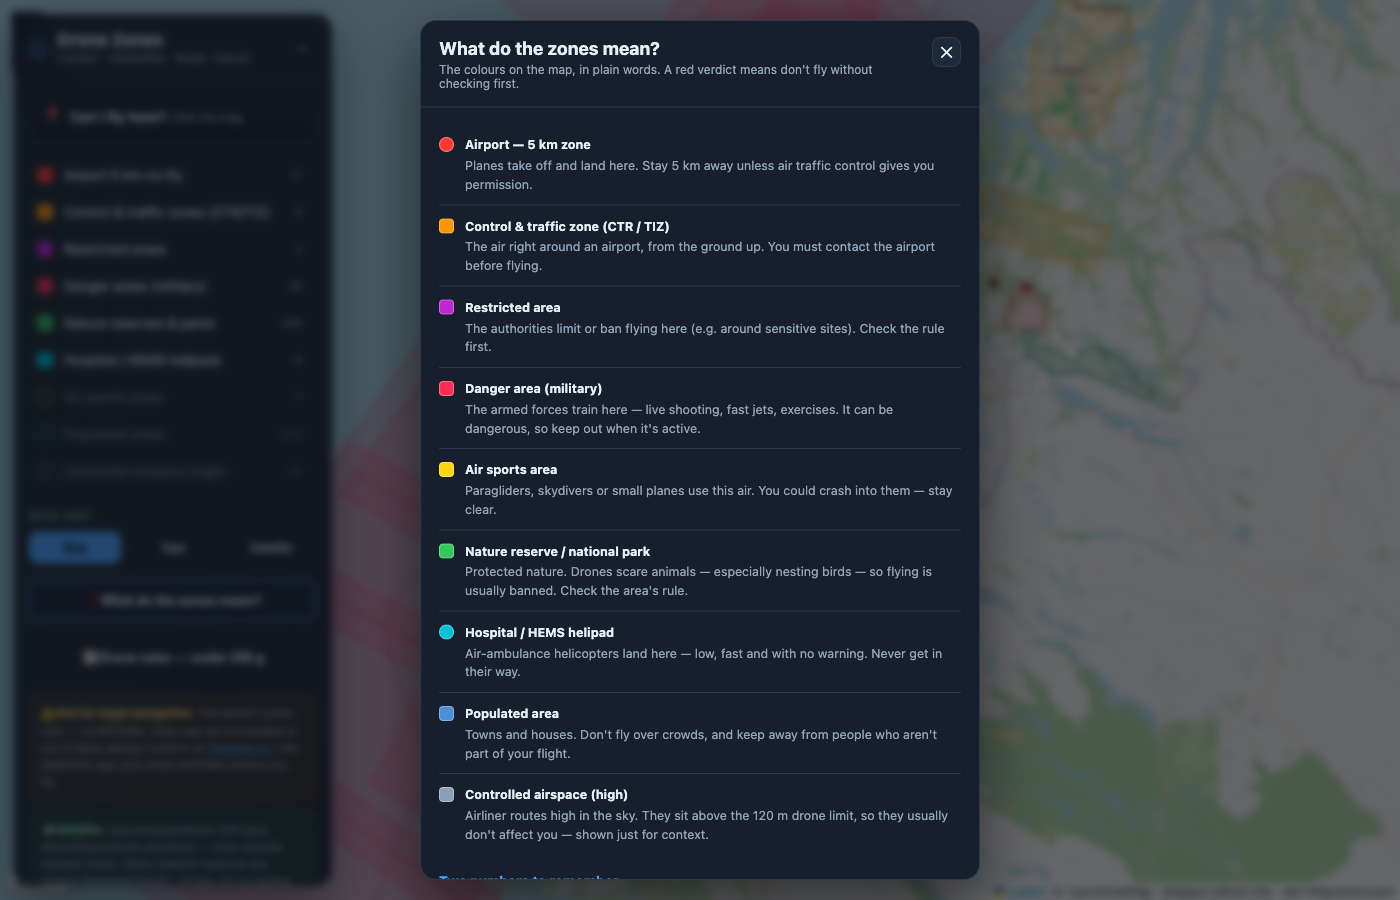
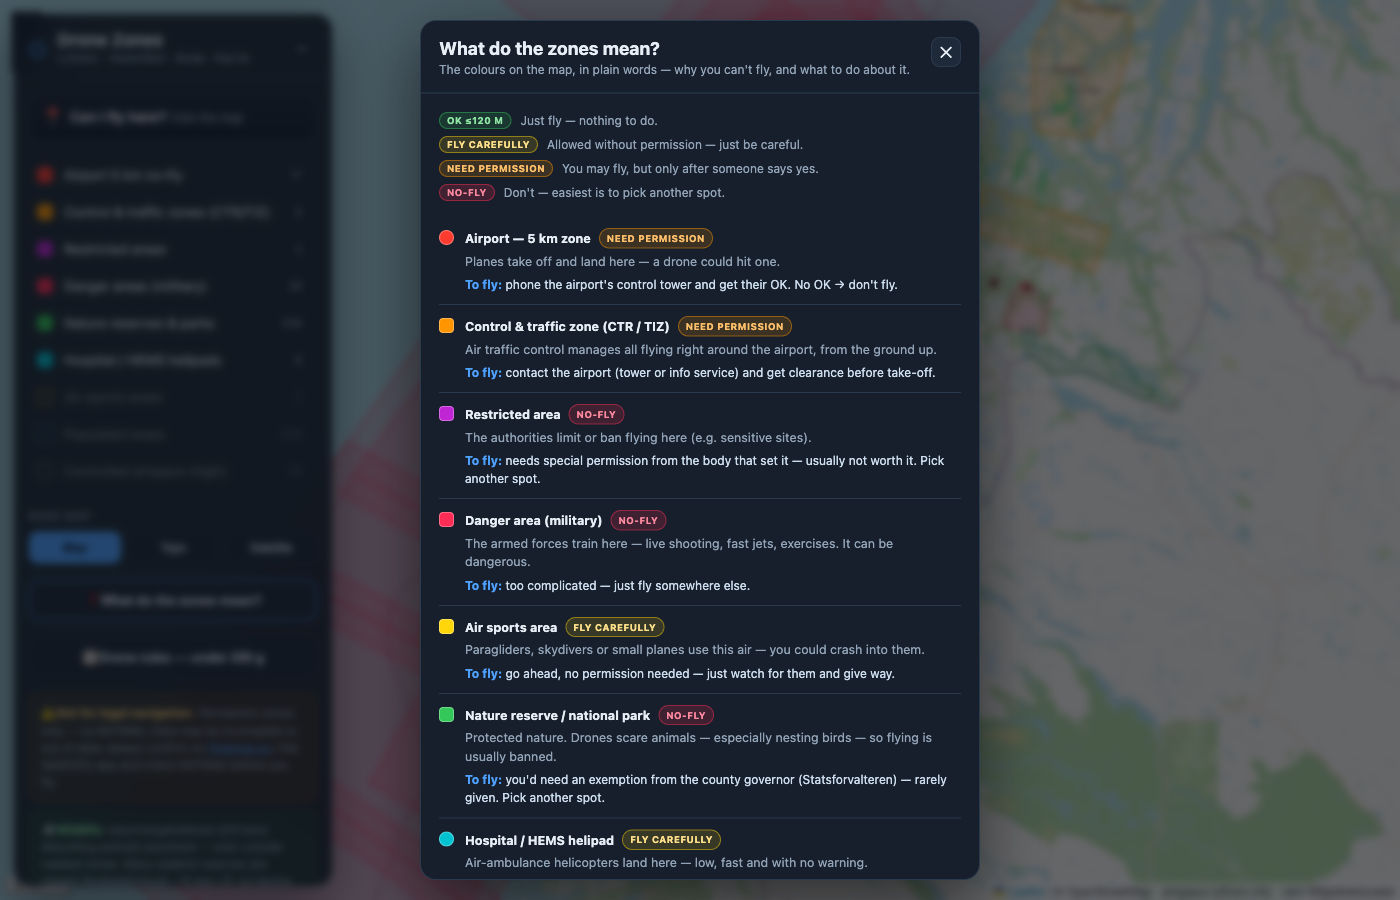
Glossary: add tag key + "To fly" actions; rename Caution → Fly carefully
Each zone now shows why you can't fly AND the concrete step to be allowed
("To fly: …"), with genuine no-fly zones simply saying "pick another spot".
A tag key explains the four badges (OK / Fly carefully / Need permission / No-fly).

Changed region(s): [[0.3071, 0.1244, 0.6757, 0.9644], [0.4914, 0.0622, 0.645, 0.0933]]

diff --git a/index.html b/index.html
@@ -125,21 +125,27 @@
       <header class="modal__head">
         <div>
           <h2 id="glossTitle">What do the zones mean?</h2>
-          <p>The colours on the map, in plain words. A red verdict means don't fly without checking first.</p>
+          <p>The colours on the map, in plain words — why you can't fly, and what to do about it.</p>
         </div>
         <button id="glossaryClose" class="iconbtn" aria-label="Close">✕</button>
       </header>
       <div class="modal__body">
+        <div class="taglegend">
+          <span><span class="badge badge--ok">OK ≤120 m</span> Just fly — nothing to do.</span>
+          <span><span class="badge badge--caution">Fly carefully</span> Allowed without permission — just be careful.</span>
+          <span><span class="badge badge--perm">Need permission</span> You may fly, but only after someone says yes.</span>
+          <span><span class="badge badge--nofly">No-fly</span> Don't — easiest is to pick another spot.</span>
+        </div>
         <ul class="gloss">
-          <li><span class="chip chip--ring" style="background:var(--c-airport)"></span><span><b>Airport — 5 km zone</b>Planes take off and land here. Stay 5 km away unless air traffic control gives you permission.</span></li>
-          <li><span class="chip" style="background:var(--c-ctr)"></span><span><b>Control &amp; traffic zone (CTR / TIZ)</b>The air right around an airport, from the ground up. You must contact the airport before flying.</span></li>
-          <li><span class="chip" style="background:var(--c-restricted)"></span><span><b>Restricted area</b>The authorities limit or ban flying here (e.g. around sensitive sites). Check the rule first.</span></li>
-          <li><span class="chip" style="background:var(--c-danger)"></span><span><b>Danger area (military)</b>The armed forces train here — live shooting, fast jets, exercises. It can be dangerous, so keep out when it's active.</span></li>
-          <li><span class="chip" style="background:var(--c-airsport)"></span><span><b>Air sports area</b>Paragliders, skydivers or small planes use this air. You could crash into them — stay clear.</span></li>
-          <li><span class="chip" style="background:var(--c-reserve)"></span><span><b>Nature reserve / national park</b>Protected nature. Drones scare animals — especially nesting birds — so flying is usually banned. Check the area's rule.</span></li>
-          <li><span class="chip chip--ring" style="background:var(--c-helipad)"></span><span><b>Hospital / HEMS helipad</b>Air-ambulance helicopters land here — low, fast and with no warning. Never get in their way.</span></li>
-          <li><span class="chip" style="background:var(--c-populated)"></span><span><b>Populated area</b>Towns and houses. Don't fly over crowds, and keep away from people who aren't part of your flight.</span></li>
-          <li><span class="chip" style="background:var(--c-controlled)"></span><span><b>Controlled airspace (high)</b>Airliner routes high in the sky. They sit above the 120 m drone limit, so they usually don't affect you — shown just for context.</span></li>
+          <li><span class="chip chip--ring" style="background:var(--c-airport)"></span><span><span class="gloss-title"><b>Airport — 5 km zone</b><span class="badge badge--perm">Need permission</span></span>Planes take off and land here — a drone could hit one.<span class="todo"><b>To fly:</b> phone the airport's control tower and get their OK. No OK → don't fly.</span></span></li>
+          <li><span class="chip" style="background:var(--c-ctr)"></span><span><span class="gloss-title"><b>Control &amp; traffic zone (CTR / TIZ)</b><span class="badge badge--perm">Need permission</span></span>Air traffic control manages all flying right around the airport, from the ground up.<span class="todo"><b>To fly:</b> contact the airport (tower or info service) and get clearance before take-off.</span></span></li>
+          <li><span class="chip" style="background:var(--c-restricted)"></span><span><span class="gloss-title"><b>Restricted area</b><span class="badge badge--nofly">No-fly</span></span>The authorities limit or ban flying here (e.g. sensitive sites).<span class="todo"><b>To fly:</b> needs special permission from the body that set it — usually not worth it. Pick another spot.</span></span></li>
+          <li><span class="chip" style="background:var(--c-danger)"></span><span><span class="gloss-title"><b>Danger area (military)</b><span class="badge badge--nofly">No-fly</span></span>The armed forces train here — live shooting, fast jets, exercises. It can be dangerous.<span class="todo"><b>To fly:</b> too complicated — just fly somewhere else.</span></span></li>
+          <li><span class="chip" style="background:var(--c-airsport)"></span><span><span class="gloss-title"><b>Air sports area</b><span class="badge badge--caution">Fly carefully</span></span>Paragliders, skydivers or small planes use this air — you could crash into them.<span class="todo"><b>To fly:</b> go ahead, no permission needed — just watch for them and give way.</span></span></li>
+          <li><span class="chip" style="background:var(--c-reserve)"></span><span><span class="gloss-title"><b>Nature reserve / national park</b><span class="badge badge--nofly">No-fly</span></span>Protected nature. Drones scare animals — especially nesting birds — so flying is usually banned.<span class="todo"><b>To fly:</b> you'd need an exemption from the county governor (Statsforvalteren) — rarely given. Pick another spot.</span></span></li>
+          <li><span class="chip chip--ring" style="background:var(--c-helipad)"></span><span><span class="gloss-title"><b>Hospital / HEMS helipad</b><span class="badge badge--caution">Fly carefully</span></span>Air-ambulance helicopters land here — low, fast and with no warning.<span class="todo"><b>To fly:</b> allowed, no permission needed — stay clear and land at once if a helicopter comes.</span></span></li>
+          <li><span class="chip" style="background:var(--c-populated)"></span><span><span class="gloss-title"><b>Populated area</b><span class="badge badge--caution">Fly carefully</span></span>Towns and houses.<span class="todo"><b>To fly:</b> allowed, no permission needed — just don't fly over crowds and keep your distance from people.</span></span></li>
+          <li><span class="chip" style="background:var(--c-controlled)"></span><span><span class="gloss-title"><b>Controlled airspace (high)</b><span class="badge badge--ok">OK ≤120 m</span></span>Airliner routes high in the sky — they sit above the 120 m drone limit.<span class="todo"><b>To fly:</b> nothing to do — you're fine as long as you stay under 120 m.</span></span></li>
         </ul>
         <h3>Two numbers to remember</h3>
         <ul class="gloss">

diff --git a/style.css b/style.css
@@ -195,6 +195,22 @@ ul.gloss .chip {
 }
 ul.gloss .chip--ring { border-radius: 50%; }
 ul.gloss b { display: block; color: var(--text); margin-bottom: 2px; }
+ul.gloss .gloss-title { display: flex; align-items: center; gap: 8px; flex-wrap: wrap; margin-bottom: 3px; }
+ul.gloss .gloss-title b { display: inline; margin: 0; }
+.badge {
+  font-size: 9.5px; font-weight: 700; letter-spacing: .4px; text-transform: uppercase;
+  padding: 2px 7px; border-radius: 20px; white-space: nowrap;
+}
+.badge--nofly { background: rgba(255,45,85,.18); color: #ff8aa0; border: 1px solid rgba(255,45,85,.45); }
+.badge--perm { background: rgba(255,149,0,.16); color: #ffc06a; border: 1px solid rgba(255,149,0,.45); }
+.badge--caution { background: rgba(255,214,10,.14); color: #ffe08a; border: 1px solid rgba(255,214,10,.45); }
+.badge--ok { background: rgba(52,199,89,.14); color: #8fe6a3; border: 1px solid rgba(52,199,89,.45); }
+
+/* Tag key + "to fly" action lines in the glossary */
+.taglegend { display: flex; flex-direction: column; gap: 7px; margin: 2px 0 16px; font-size: 12px; color: var(--muted); }
+.taglegend > span { display: flex; align-items: center; gap: 9px; }
+ul.gloss .todo { display: block; margin-top: 5px; font-size: 12px; color: #cdddee; }
+ul.gloss .todo b { display: inline; margin: 0; color: var(--accent); }
 
 /* ---------- Disclaimer ---------- */
 .disclaimer {